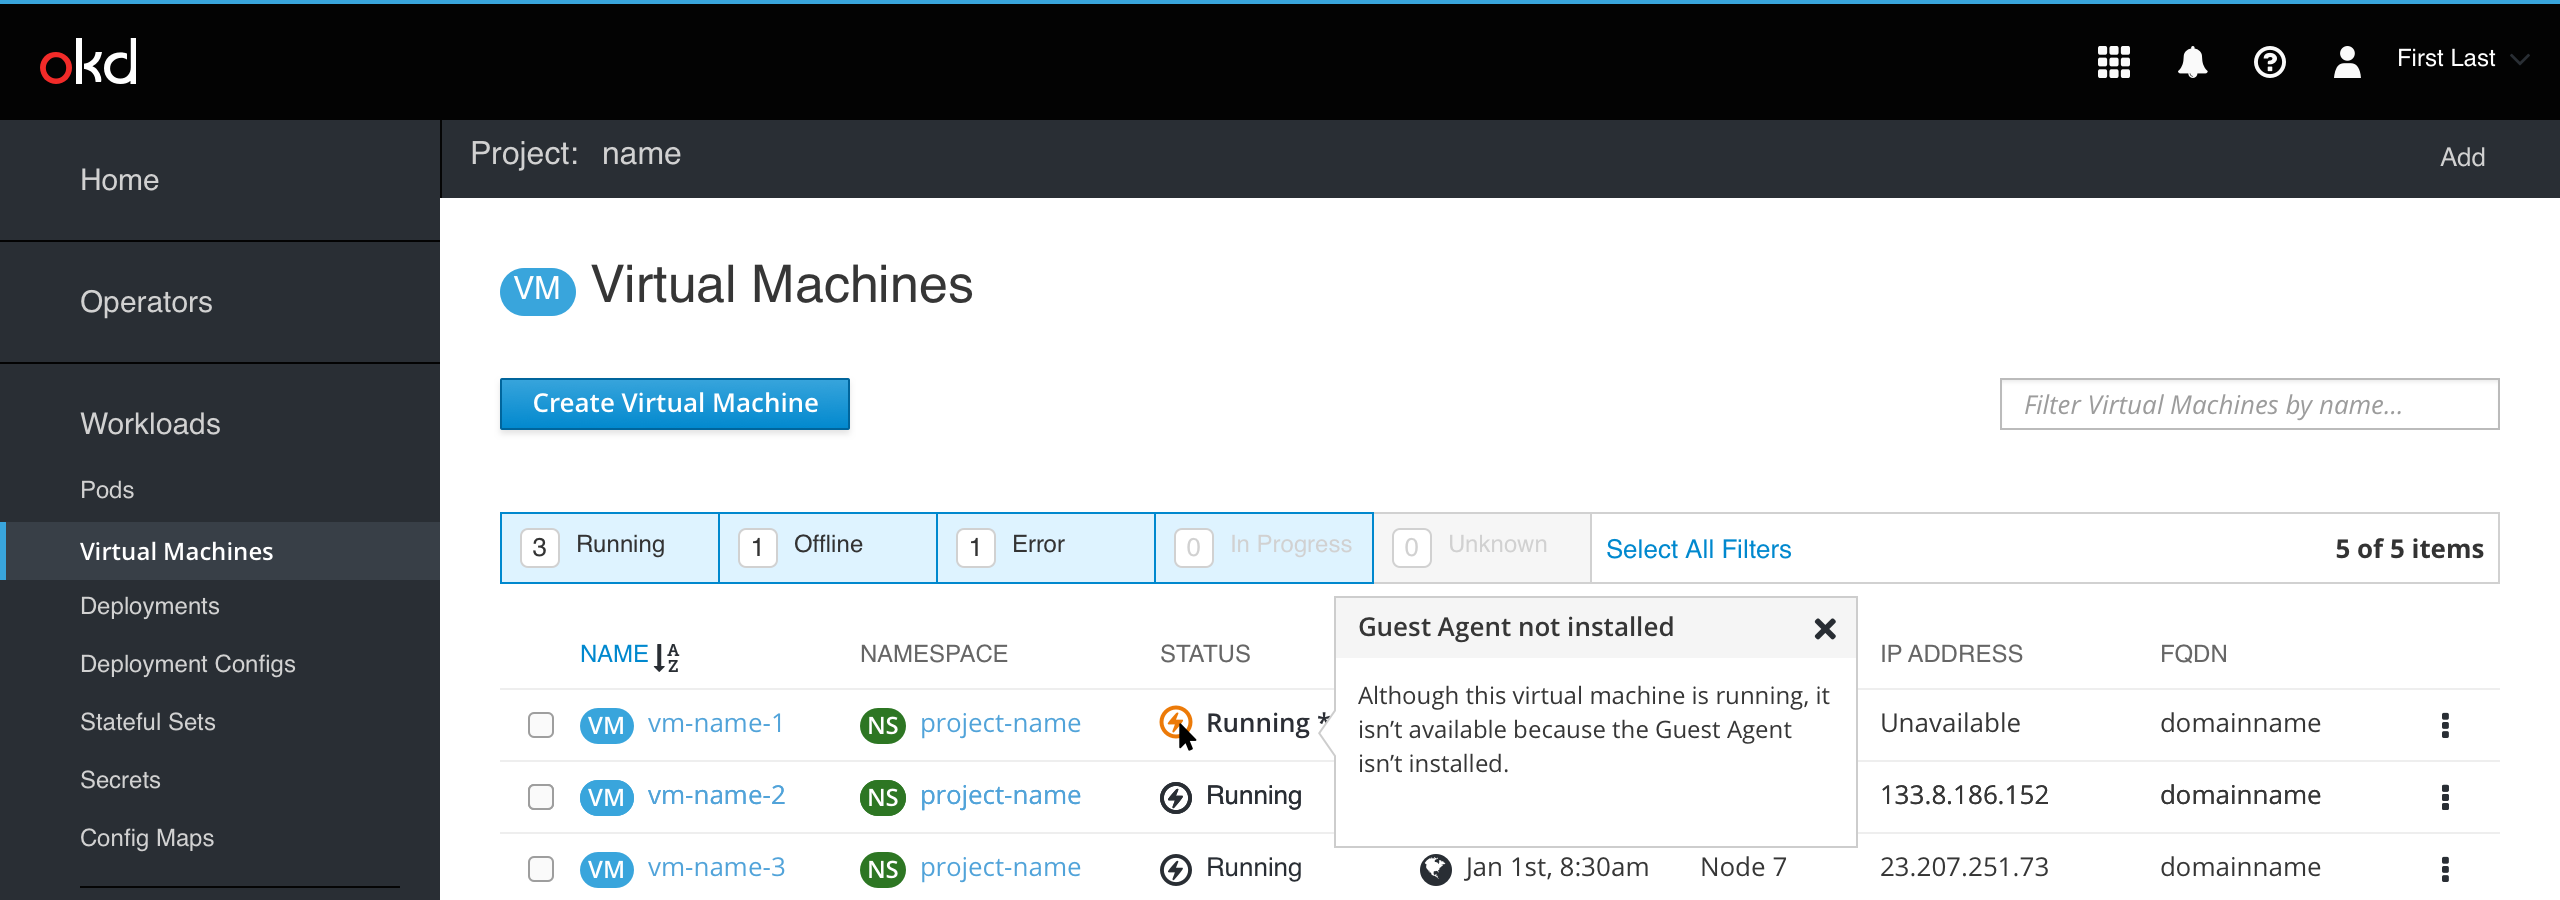
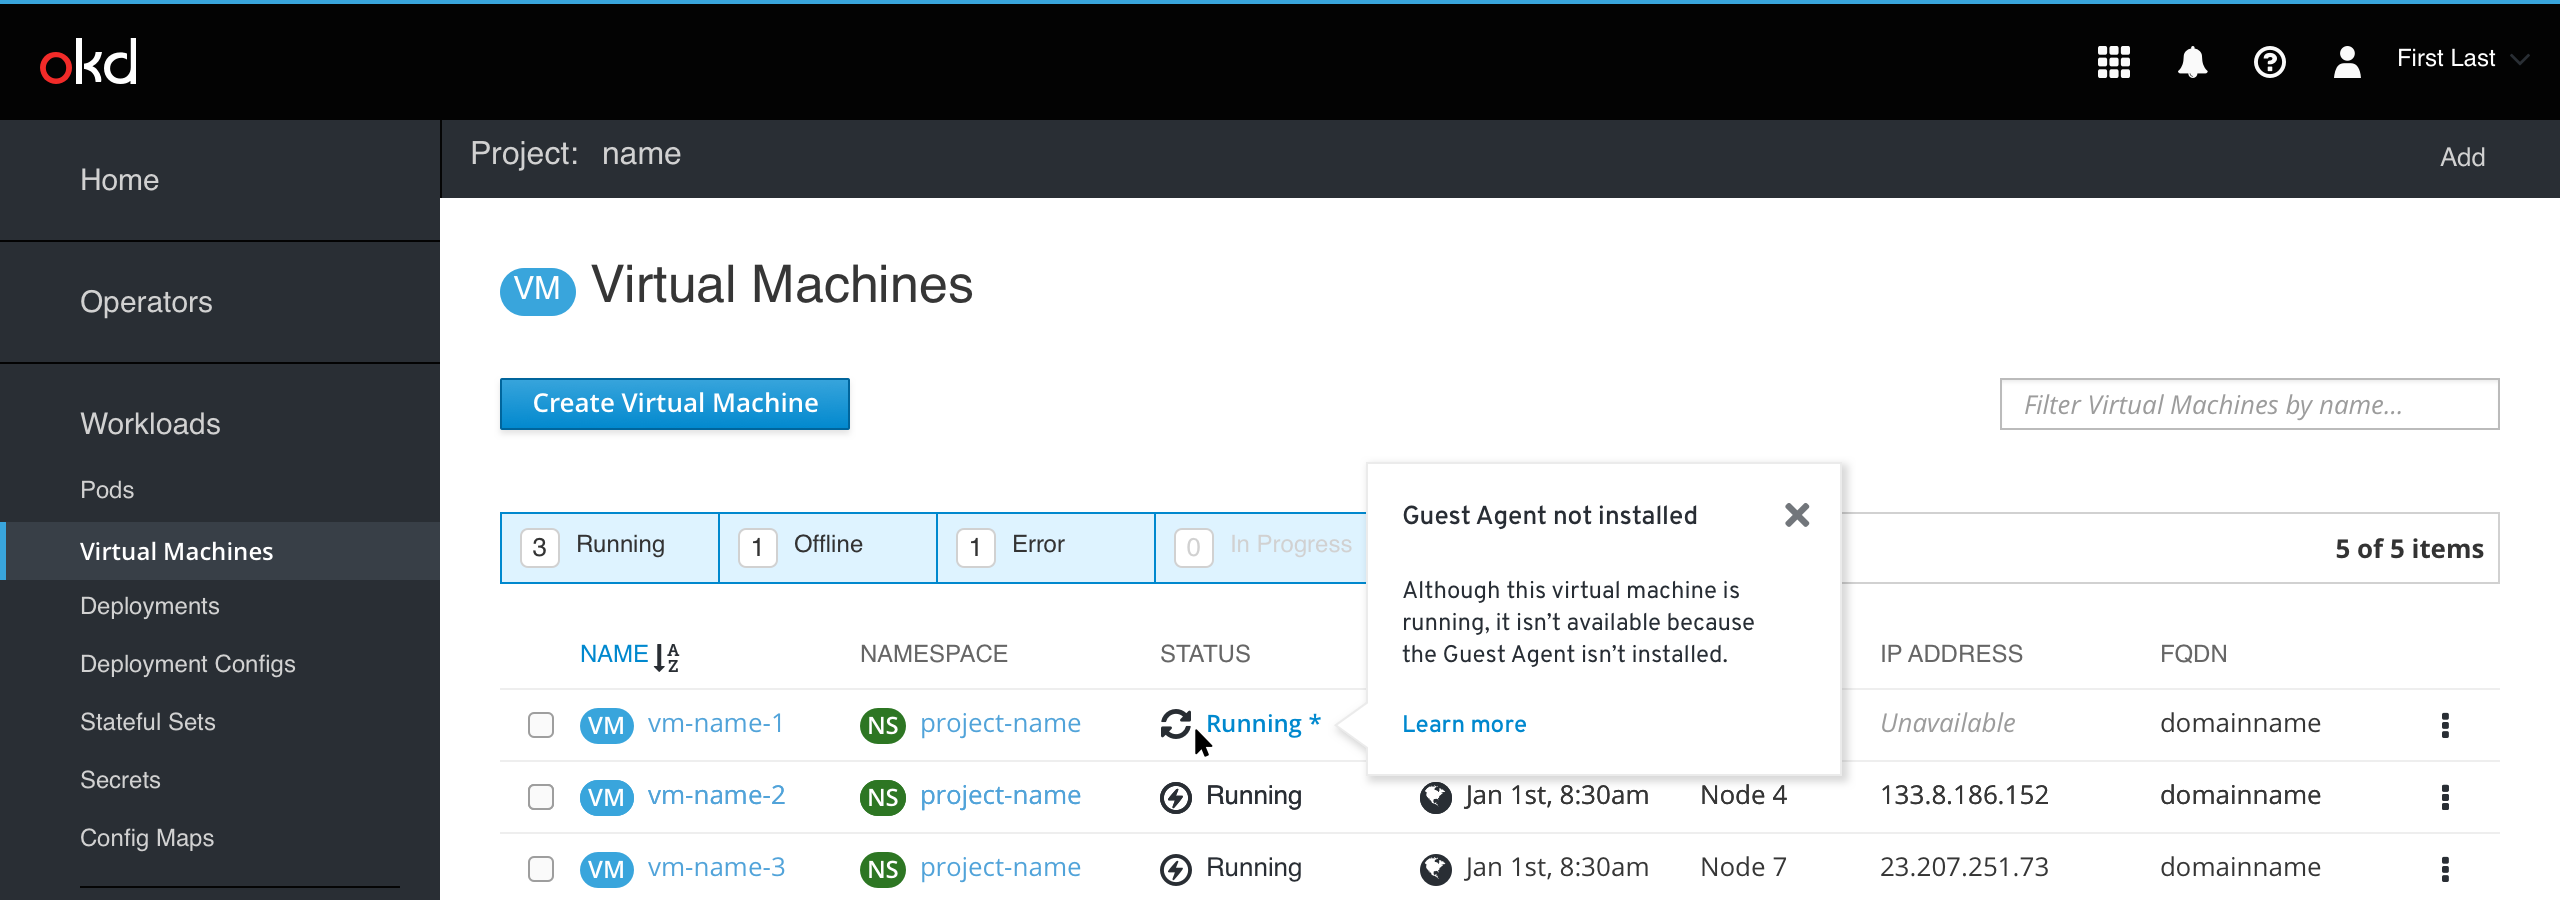
updating images for the popovers

Changed region(s): [[0.4375, 0.56, 0.7812, 0.9022]]

diff --git a/web-console/knikubevirt/guest-agent-not-installed/guest-agent-not-installed.md b/web-console/knikubevirt/guest-agent-not-installed/guest-agent-not-installed.md
@@ -2,21 +2,8 @@
 
 The purpose of this document is to show what a VM would look like without the guest agent installed. 
 
-In the list view we show an “info” icon with the status with a tooltip that shows that the guest agent isn't installed. Further information can be provided in a tooltip.
-
-For the IP address, when the guest agent isn't installed, items will get “unavailable” text and a tooltip with more info on hover.
+In the list view we show the Running* status text in blue to indicate that it's clickabe. Clicking on it will show a popover with additional info and a "Learn more" action at the bottom-left corner, that would link to documentation about installing guest agent.
 
 ![vm list](img/guest-agent-1.png)
  
 ![vm list](img/guest-agent-2.png)
-
-![vm list](img/guest-agent-3.png)
-
-
-
-
-
-
-
-
-
